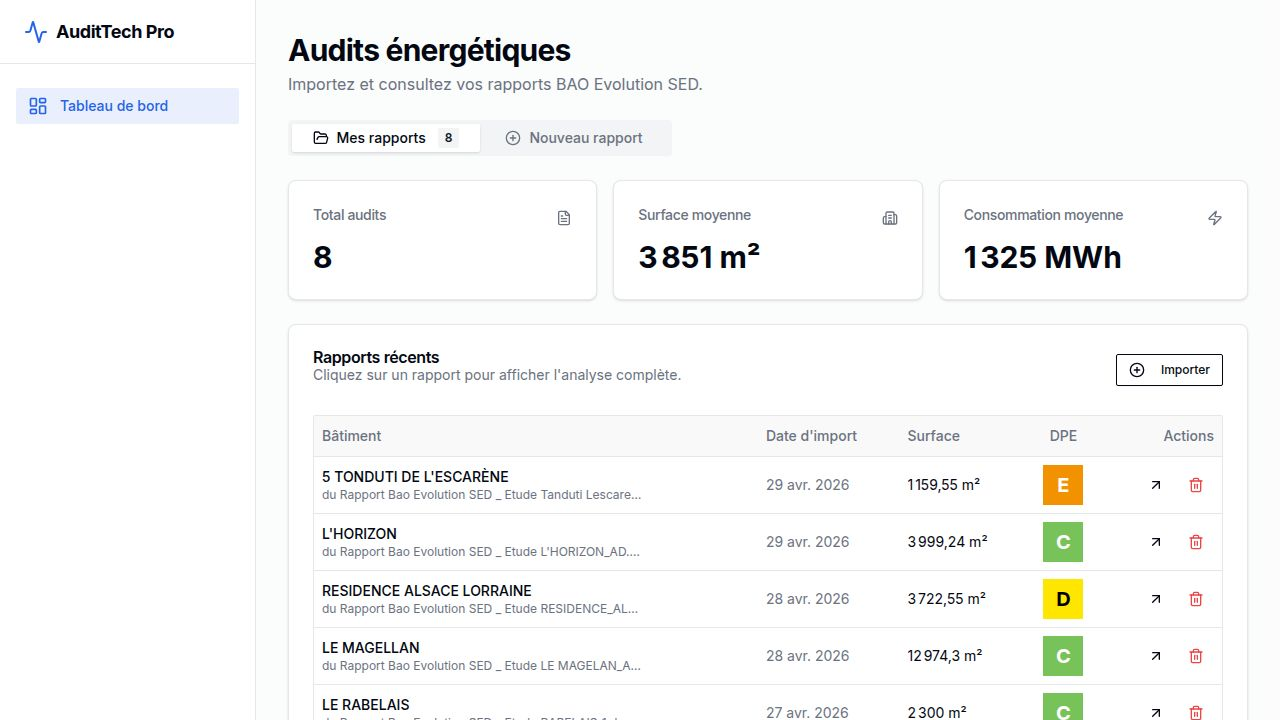
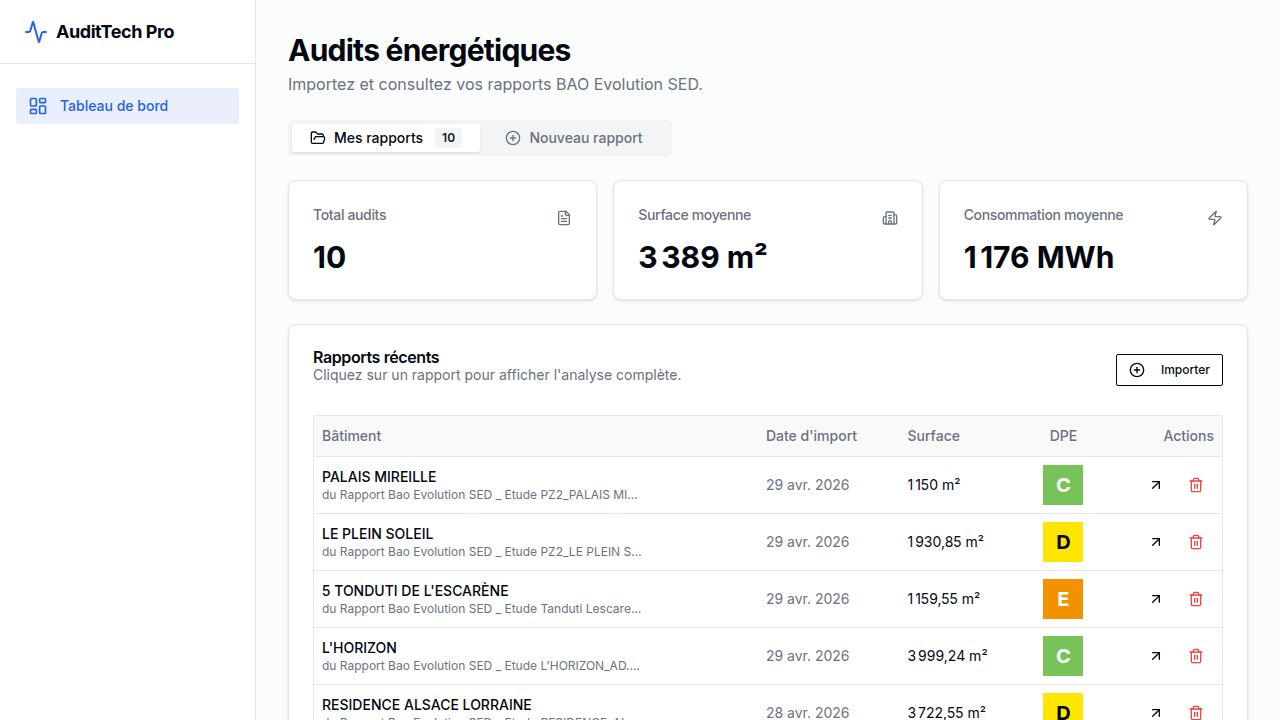
Revert changes to display the DPE label correctly
Revert modifications to `SyntheseGlobale` and `ScenarioCards` components and their call sites in `report-detail.tsx`, restoring the original DPE label calculation logic.

Replit-Commit-Author: Agent
Replit-Commit-Session-Id: d4885d04-b159-4d7c-a0b3-f0503bfe7444
Replit-Commit-Checkpoint-Type: full_checkpoint
Replit-Commit-Event-Id: d13971c3-d014-4f9a-bda3-2e144bda1e1d
Replit-Commit-Screenshot-Url: https://storage.googleapis.com/screenshot-production-us-central1/3a2bcee4-d645-43f9-996a-cb560d5ab4fc/d4885d04-b159-4d7c-a0b3-f0503bfe7444/bUnfZ2x
Replit-Helium-Checkpoint-Created: true

diff --git a/artifacts/energy-audit/src/pages/report-detail.tsx b/artifacts/energy-audit/src/pages/report-detail.tsx
@@ -140,12 +140,10 @@ function SyntheseGlobale({
   rawFields,
   initialCost,
   scenarios,
-  initialDpeLabel,
 }: {
   rawFields: RawField[];
   initialCost: number | null;
   scenarios?: Array<{ tauxEnrRPct?: number | null }>;
-  initialDpeLabel?: string | null;
 }) {
   const scenarioCodes = useScenarioCodes(rawFields);
   if (scenarioCodes.length === 0) return null;
@@ -205,9 +203,7 @@ function SyntheseGlobale({
             <tr className="border-b">
               <td className="py-3 px-4 text-muted-foreground font-medium">Étiquette DPE</td>
               <td className="py-3 px-4 text-center bg-slate-50">
-                {initialDpeLabel ? (
-                  <EnergyLabel label={initialDpeLabel} className="h-9 w-9 text-base mx-auto" />
-                ) : thceInitial !== null ? (
+                {thceInitial !== null ? (
                   <EnergyLabel label={dpeFromEP(thceInitial)} className="h-9 w-9 text-base mx-auto" />
                 ) : "—"}
               </td>
@@ -512,11 +508,9 @@ function SyntheseGlobale({
 function ScenarioCards({
   rawFields,
   initialCost,
-  initialDpeLabel,
 }: {
   rawFields: RawField[];
   initialCost: number | null;
-  initialDpeLabel?: string | null;
 }) {
   const scenarioCodes = useScenarioCodes(rawFields);
   if (scenarioCodes.length === 0) return null;
@@ -570,9 +564,7 @@ function ScenarioCards({
               <div className="grid grid-cols-3 gap-4 p-4 bg-muted/20 rounded-lg">
                 <div className="text-center">
                   <p className="text-xs text-muted-foreground mb-2 font-medium">ÉTAT INITIAL</p>
-                  {initialDpeLabel ? (
-                    <EnergyLabel label={initialDpeLabel} className="h-12 w-12 text-xl mx-auto mb-1" />
-                  ) : thceInitial !== null ? (
+                  {thceInitial !== null ? (
                     <EnergyLabel label={dpeFromEP(thceInitial)} className="h-12 w-12 text-xl mx-auto mb-1" />
                   ) : <div className="h-12 w-12 mx-auto" />}
                   <p className="text-xs font-mono font-semibold">
@@ -1946,8 +1938,8 @@ export function ReportDetail() {
 
         {/* ── Onglet Synthèse ───────────────────────────────────────────── */}
         <TabsContent value="synthese" className="space-y-6 mt-0">
-          <SyntheseGlobale rawFields={rawFields} initialCost={initialCost ?? null} scenarios={(report as unknown as { metadata?: { scenarios?: Array<{ tauxEnrRPct?: number | null }> } }).metadata?.scenarios} initialDpeLabel={report.energyLabel.currentLabel} />
-          <ScenarioCards rawFields={rawFields} initialCost={initialCost ?? null} initialDpeLabel={report.energyLabel.currentLabel} />
+          <SyntheseGlobale rawFields={rawFields} initialCost={initialCost ?? null} scenarios={(report as unknown as { metadata?: { scenarios?: Array<{ tauxEnrRPct?: number | null }> } }).metadata?.scenarios} />
+          <ScenarioCards rawFields={rawFields} initialCost={initialCost ?? null} />
           <ScenarioInvestEditor
             rawFields={rawFields}
             reportId={Number(id)}